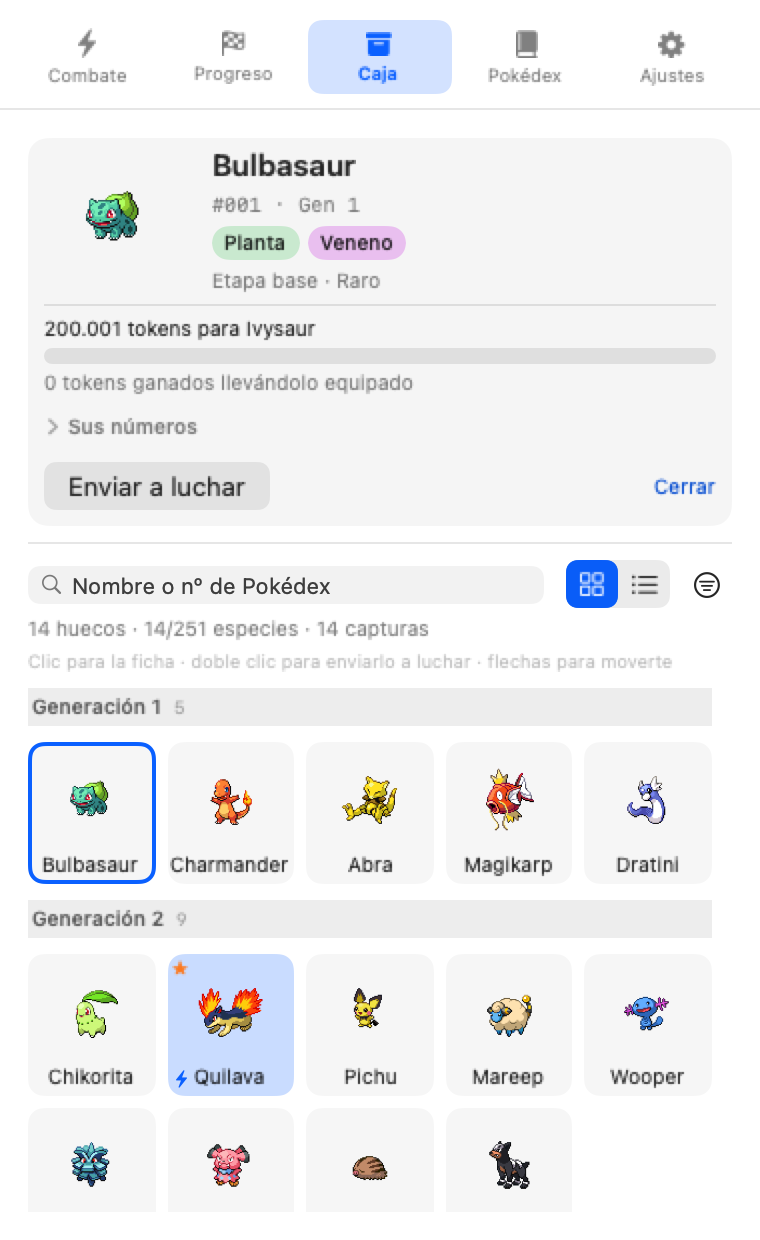
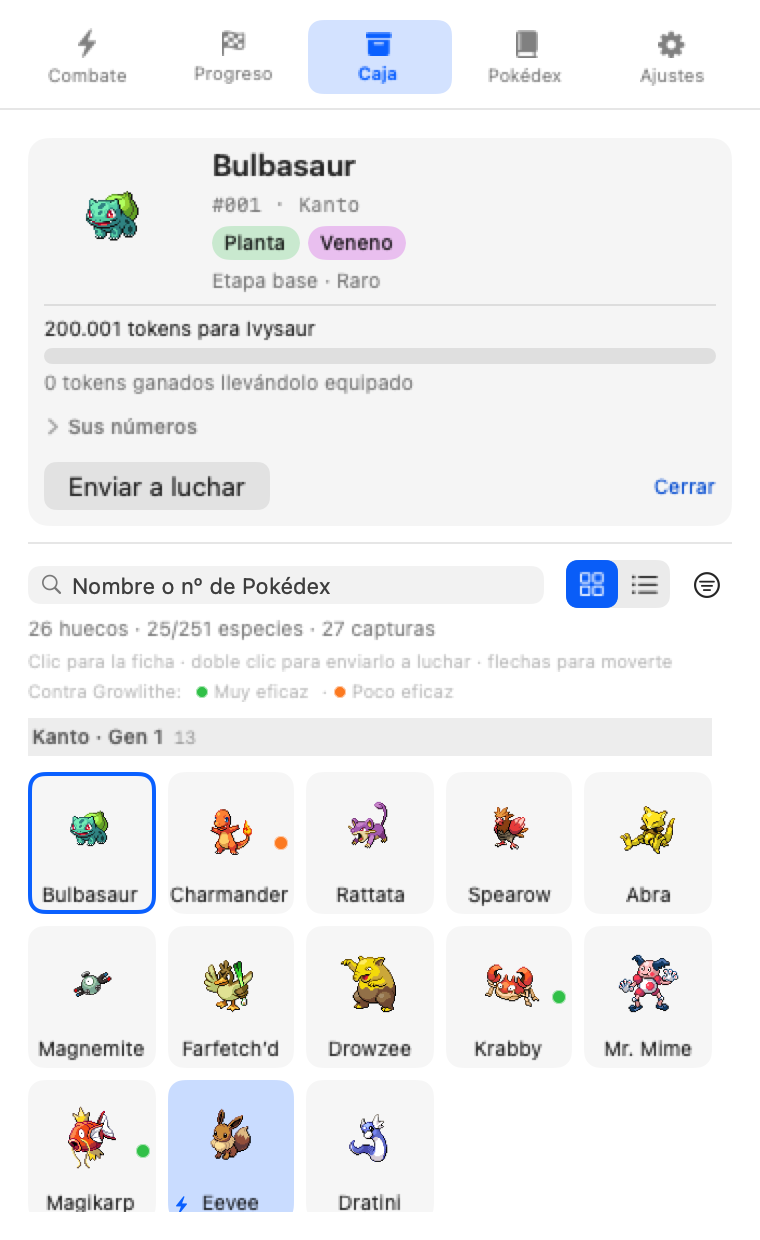
feat(caja): punto de eficacia en cada hueco y fuera el número de victorias
La rejilla llevaba el contador de victorias de la línea en cada celda. De un
vistazo no dice nada y encima se leía como "tengo dos de este Pokémon": el
número está en la ficha y en el modo lista, que es donde se piden números.

En su lugar va lo que sí se lee de golpe y contesta la pregunta que se hace
todo el rato en la caja —"¿a quién llevo a esta pelea?"—: un punto de color
con el cruce de tipos de ese ejemplar contra el rival de ahora, sea salvaje o
jefe. Verde muy eficaz, naranja poco eficaz, rojo inmune, y nada cuando es
neutro, porque si todas las celdas llevaran color el color dejaría de
señalar. La cabecera lleva la leyenda con el nombre del rival, y la ficha
añade la línea con número y nombre, neutro incluido.

diff --git a/Sources/PokeTokenBarSelfTest/GameStoreTests.swift b/Sources/PokeTokenBarSelfTest/GameStoreTests.swift
@@ -25,10 +25,57 @@ enum GameStoreTests: TestSuite {
         ("la migración acredita al equipado", testMigrationCreditsTheEquippedCompanion),
         ("el multiplicador de tipos escala el daño real", testTypeMultiplierScalesDamage),
         ("la colección suma daño solo a los salvajes", testCollectionBonus),
+        ("el cruce de cada ejemplar contra el rival de ahora", testMatchupAgainstCurrentTarget),
         ("las secciones plegadas se recuerdan", testCollapsedSectionsPersist),
         ("abrir una ficha no cambia el tamaño del HUD", testOpeningDetailNeverResizesTheHUD),
         ("plegar el HUD cierra la ficha y la caja", testCollapsingTheHUDClosesEverything),
     ]
+
+    /// El dato del punto de color de la caja: cómo le va a **cada** ejemplar
+    /// contra lo que hay delante, no solo al equipado.
+    static func testMatchupAgainstCurrentTarget() throws {
+        let store = makeStore()
+        store.chooseStarter(speciesID: 7)              // Squirtle, agua
+        store.debugCapture(speciesID: 152)             // Chikorita, planta
+        store.debugCapture(speciesID: 43)              // Oddish, planta/veneno
+
+        // Rival de fuego: el agua pega ×2, la planta ×0,5 y el fuego ×0,5.
+        store.debugSetEncounter(WildEncounter(speciesID: 58, isShiny: false, rarity: .common, maxHP: 1_000))
+        expectEqual(store.matchupAgainstCurrentTarget(["water"])?.raw, 2)
+        expectEqual(store.matchupAgainstCurrentTarget(["grass"])?.raw, 0.5)
+        expectEqual(store.matchupAgainstCurrentTarget(["fire"])?.raw, 0.5)
+
+        // Por grupo de la caja, que es como lo pide la rejilla.
+        let squirtle = try unwrap(store.boxGroups.first { $0.species.id == 7 })
+        expectEqual(store.matchupAgainstCurrentTarget(squirtle)?.raw, 2, "el Squirtle es el que hay que llevar")
+        let chikorita = try unwrap(store.boxGroups.first { $0.species.id == 152 })
+        expectEqual(store.matchupAgainstCurrentTarget(chikorita)?.raw, 0.5)
+        // De un doble tipo cuenta el mejor de los dos, así que el veneno de
+        // Oddish le salva la planta y el punto no se pinta.
+        let oddish = try unwrap(store.boxGroups.first { $0.species.id == 43 })
+        expectTrue(store.matchupAgainstCurrentTarget(oddish)?.isNeutral == true)
+
+        // Contra un jefe se mide contra el jefe, no contra un salvaje que ya
+        // no está: es el rival de ahora, sea quien sea.
+        store.debugSetGymCounters(tokens: GameRules.gymTokenInterval, captures: 0)
+        store.debugSetEncounter(WildEncounter(speciesID: 19, isShiny: false, rarity: .common, maxHP: 10))
+        store.ingest(event("abre", input: 10, output: 0))
+        let gym = try unwrap(store.availableGym)
+        expectTrue(store.startGym(gym.id))
+        let defender = try unwrap(store.pokedex[gym.signatureSpeciesID])
+        expectEqual(
+            store.matchupAgainstCurrentTarget(squirtle)?.raw,
+            store.typeChart.matchup(attacker: ["water"], defender: defender.types).raw,
+            "mide contra el líder"
+        )
+
+        expectEqual(store.matchupLegendRival, gym.leader, "la leyenda nombra al rival de ahora")
+
+        // Y sin efectividad de tipos no hay punto que pintar ni leyenda.
+        store.updateSettings { $0.typeEffectivenessEnabled = false }
+        expectNil(store.matchupAgainstCurrentTarget(squirtle))
+        expectNil(store.matchupLegendRival)
+    }
 
     static func testCollapsedSectionsPersist() {
         let url = temporaryStateURL()

diff --git a/Sources/PokeTokenBarCore/Store/GameStore.swift b/Sources/PokeTokenBarCore/Store/GameStore.swift
@@ -577,6 +577,9 @@ public final class GameStore: ObservableObject {
         public let rate: Double
         public let matchup: TypeMatchup
         public let isBoss: Bool
+        /// Tipos del que hay delante, para poder medir **cualquier** ejemplar de
+        /// la caja contra él y no solo el equipado.
+        public let defenderTypes: [String]
     }
 
     public var currentTarget: CurrentTarget? {
@@ -585,7 +588,8 @@ public final class GameStore: ObservableObject {
                 label: active.member.name,
                 rate: damagePerToken(against: active.member),
                 matchup: matchup(against: active.member),
-                isBoss: true
+                isBoss: true,
+                defenderTypes: pokedex[active.member.opponentSpeciesID]?.types ?? []
             )
         }
         if let active = activeMilestone {
@@ -593,7 +597,8 @@ public final class GameStore: ObservableObject {
                 label: pokedex[active.milestone.speciesID]?.localizedName ?? active.milestone.place,
                 rate: damagePerToken(against: active.milestone),
                 matchup: matchup(against: active.milestone),
-                isBoss: true
+                isBoss: true,
+                defenderTypes: pokedex[active.milestone.speciesID]?.types ?? []
             )
         }
         if let active = activeGym {
@@ -601,7 +606,8 @@ public final class GameStore: ObservableObject {
                 label: active.gym.leader,
                 rate: damagePerToken(against: active.gym),
                 matchup: matchup(against: active.gym),
-                isBoss: true
+                isBoss: true,
+                defenderTypes: pokedex[active.gym.opponentSpeciesID]?.types ?? []
             )
         }
         if let rival = rivalSpecies {
@@ -609,10 +615,39 @@ public final class GameStore: ObservableObject {
                 label: rival.localizedName,
                 rate: wildDamagePerToken,
                 matchup: currentMatchup,
-                isBoss: false
+                isBoss: false,
+                defenderTypes: rival.types
             )
         }
         return nil
+    }
+
+    /// Cruce de un ejemplar de la caja contra lo que hay delante ahora mismo.
+    ///
+    /// Es lo que contesta de un vistazo "¿a quién llevo a esta pelea?", que
+    /// hasta ahora había que ir mirando ficha por ficha. `nil` cuando no hay
+    /// rival o cuando la efectividad está desactivada en ajustes.
+    public func matchupAgainstCurrentTarget(_ attackerTypes: [String]) -> TypeMatchup? {
+        guard state.settings.typeEffectivenessEnabled,
+              let target = currentTarget,
+              !target.defenderTypes.isEmpty,
+              !attackerTypes.isEmpty
+        else { return nil }
+        return typeChart.matchup(attacker: attackerTypes, defender: target.defenderTypes)
+    }
+
+    public func matchupAgainstCurrentTarget(_ group: BoxGroup) -> TypeMatchup? {
+        matchupAgainstCurrentTarget(group.displayForm.types)
+    }
+
+    /// Nombre del rival contra el que se están midiendo los puntos de la caja,
+    /// o `nil` cuando no hay ninguno y por tanto no hay nada que explicar.
+    public var matchupLegendRival: String? {
+        guard state.settings.typeEffectivenessEnabled,
+              let target = currentTarget,
+              !target.defenderTypes.isEmpty
+        else { return nil }
+        return target.label
     }
 
     public var rivalSpecies: Pokemon? {

diff --git a/Sources/PokeTokenBar/Views/BoxGridView.swift b/Sources/PokeTokenBar/Views/BoxGridView.swift
@@ -138,6 +138,9 @@ struct BoxGridView: View {
         if isActive { parts.append("· equipado") }
         let wins = store.timesDefeated(familyOf: group.species.id)
         if wins > 0 { parts.append("· \(wins) victorias contra su línea") }
+        if let matchup = store.matchupAgainstCurrentTarget(group), !matchup.isNeutral {
+            parts.append("· \(matchup.badge) \(matchup.label) contra el rival de ahora")
+        }
         parts.append("· clic para su ficha, doble clic para enviarlo a luchar")
         return parts.joined(separator: " ")
     }
@@ -192,18 +195,15 @@ struct BoxGridView: View {
                 Text("✦").font(.system(size: 10)).foregroundStyle(.yellow).padding(2)
             }
         }
-        .overlay(alignment: .bottomTrailing) {
-            // Ya no puede haber repetidos, así que el hueco lo ocupa el
-            // número que sí crece: victorias contra esa línea.
-            let wins = store.timesDefeated(familyOf: group.species.id)
-            if wins > 1 {
-                Text("\(wins)⚔")
-                    .font(.system(size: 10, weight: .semibold, design: .monospaced))
-                    .padding(.horizontal, 3)
-                    .padding(.vertical, 1)
-                    .background(Color.secondary.opacity(0.22), in: Capsule())
-                    .padding(2)
-            }
+        .overlay(alignment: .trailing) {
+            // Aquí iba el número de victorias, que de un vistazo no dice nada
+            // y encima se lee como "×2 de este Pokémon". Los números están en
+            // su ficha y en el modo lista; el hueco lo ocupa lo que sí se lee
+            // de golpe: cómo le va a este ejemplar contra el rival de ahora.
+            // Al centro del borde derecho, que es la única esquina libre y no
+            // se come el nombre.
+            MatchupDot(matchup: store.matchupAgainstCurrentTarget(group))
+                .padding(.trailing, 3)
         }
         .overlay(alignment: .bottomLeading) {
             if isActive {
@@ -241,6 +241,7 @@ struct BoxGridView: View {
                             .font(.system(size: 8))
                             .foregroundStyle(Color.accentColor)
                     }
+                    MatchupDot(matchup: store.matchupAgainstCurrentTarget(group), size: 6)
                 }
                 Text("#\(String(format: "%03d", group.displayForm.id)) · \(group.stage.label) · \(group.species.rarity.label)")
                     .font(.system(size: 9))

diff --git a/Sources/PokeTokenBar/Views/Components.swift b/Sources/PokeTokenBar/Views/Components.swift
@@ -86,6 +86,61 @@ struct RarityBadge: View {
 
 /// Multiplicador de tipos del combate actual. Neutro no se pinta: si no cambia
 /// nada, no merece espacio.
+/// Punto de color con el cruce de tipos contra lo que hay delante. Sirve para
+/// barrer la caja con la vista y ver a quién llevar: verde pega más, naranja
+/// menos, rojo no le hace nada. Neutro no pinta nada, para que solo destaque
+/// lo que decide algo.
+struct MatchupDot: View {
+    let matchup: TypeMatchup?
+    var size: CGFloat = 7
+
+    /// Neutro no pinta nada: si todo llevara punto, el color dejaría de
+    /// señalar. Solo se marca lo que cambia la decisión.
+    static func tint(_ matchup: TypeMatchup?) -> Color? {
+        guard let matchup, !matchup.isNeutral else { return nil }
+        if matchup.isImmune { return .red }
+        return matchup.raw > 1 ? .green : .orange
+    }
+
+    private var tint: Color? { Self.tint(matchup) }
+
+    var body: some View {
+        if let tint, let matchup {
+            Circle()
+                .fill(tint)
+                .frame(width: size, height: size)
+                .overlay(Circle().strokeBorder(.white.opacity(0.6), lineWidth: 0.5))
+                .help("\(matchup.badge) \(matchup.label) contra el rival de ahora")
+        }
+    }
+}
+
+/// Los puntos de la caja no se explican solos, así que la leyenda dice qué es
+/// cada color y contra quién se está midiendo.
+struct MatchupLegend: View {
+    let rival: String
+    private static let samples = [
+        TypeMatchup(raw: 2, multiplier: 2, attacking: nil),
+        TypeMatchup(raw: 0.5, multiplier: 0.5, attacking: nil),
+    ]
+
+    var body: some View {
+        HStack(spacing: 6) {
+            Text("Contra \(rival):")
+            ForEach(Array(Self.samples.enumerated()), id: \.element.raw) { index, sample in
+                HStack(spacing: 3) {
+                    if index > 0 { Text("·") }
+                    MatchupDot(matchup: sample, size: 6)
+                    Text(sample.label)
+                }
+            }
+        }
+        .font(.system(size: 9))
+        .foregroundStyle(.tertiary)
+        .lineLimit(1)
+    }
+}
+
 struct MatchupBadge: View {
     let matchup: TypeMatchup
     var compact = false

diff --git a/Sources/PokeTokenBar/Views/PokemonDetailView.swift b/Sources/PokeTokenBar/Views/PokemonDetailView.swift
@@ -176,6 +176,12 @@ struct PokemonDetailView: View {
 
     private var stats: some View {
         VStack(alignment: .leading, spacing: 3) {
+            // El punto de la rejilla solo tiene color; aquí va con número y
+            // nombre, incluido el neutro, que en la rejilla no se pinta.
+            if let rival = store.matchupLegendRival,
+               let matchup = store.matchupAgainstCurrentTarget(group) {
+                row("Contra \(rival)", "\(matchup.badge) \(matchup.label)")
+            }
             row("Combates ganados", Fmt.tokens(captured.wildDefeats))
             row("Gimnasios ganados", Fmt.tokens(captured.gymsWon))
             row("Veces vencido en libertad", Fmt.tokens(store.timesDefeated(familyOf: group.species.id)))

diff --git a/Sources/PokeTokenBar/UIRender.swift b/Sources/PokeTokenBar/UIRender.swift
@@ -137,6 +137,10 @@ enum UIRender {
             store.selectedBoxGroupID = nil
         }
 
+        // Rival fijo de fuego para que los puntos de eficacia de la caja salgan
+        // siempre iguales en la captura.
+        store.debugSetEncounter(WildEncounter(speciesID: 58, isShiny: false, rarity: .common, maxHP: 900_000))
+        warm([58])
         store.selectedTab = "caja"
         write("popover-caja", hosted(RootView(), size: popoverSize))
 

diff --git a/Sources/PokeTokenBarCore/Data/TypeChart.swift b/Sources/PokeTokenBarCore/Data/TypeChart.swift
@@ -8,6 +8,12 @@ public struct TypeMatchup: Hashable, Sendable {
     public let multiplier: Double
     public let attacking: String?
 
+    public init(raw: Double, multiplier: Double, attacking: String?) {
+        self.raw = raw
+        self.multiplier = multiplier
+        self.attacking = attacking
+    }
+
     public var isImmune: Bool { raw == 0 }
     public var isNeutral: Bool { raw == 1 }
 

diff --git a/Sources/PokeTokenBar/Views/BoxToolbar.swift b/Sources/PokeTokenBar/Views/BoxToolbar.swift
@@ -70,6 +70,10 @@ struct BoxToolbar: View {
                     .foregroundStyle(.tertiary)
                     .lineLimit(1)
             }
+
+            if let rival = store.matchupLegendRival {
+                MatchupLegend(rival: rival)
+            }
         }
     }
 

diff --git a/README.md b/README.md
@@ -205,6 +205,13 @@ agua contra fuego ×2, fuego contra agua ×0,5, roca contra fuego/volador ×4.
 - Al capturar en cadena, los tokens que sobran se re-escalan con el
   multiplicador del **rival nuevo**, que puede ser otro tipo.
 - Se puede apagar desde el popover (vuelve a 1 token = 1 HP).
+- **La caja marca el cruce de cada ejemplar con un punto de color**: verde si
+  pega fuerte contra el rival de ahora, naranja si le hace cosquillas, rojo si
+  es inmune, y nada cuando es neutro. Neutro no se pinta a propósito: si todas
+  las celdas llevaran color, el color dejaría de señalar. La leyenda de la
+  cabecera dice contra quién se está midiendo, y el rival puede ser un salvaje
+  o un jefe — es siempre el de la pelea abierta. Con la efectividad apagada no
+  hay puntos.
 
 La tabla se genera de PokeAPI (`tools/generate_typechart.mjs`) e incluye Hada:
 la Pokédex embebida trae los tipos actuales, así que Clefairy, Togepi o Marill
@@ -418,9 +425,14 @@ después, ahora recordado entre sesiones.
 
 <p align="center">
   <img src="docs/screenshots/popover-progreso.png" width="240" alt="Progreso: medallas, ligas y legendarios">
-  <img src="docs/screenshots/popover-caja.png" width="240" alt="Caja en rejilla con tramos por generación">
+  <img src="docs/screenshots/popover-caja.png" width="240" alt="Caja en rejilla con tramos por región y puntos de eficacia">
   <img src="docs/screenshots/popover-caja-lista.png" width="240" alt="Caja en modo lista, con los números de cada hueco">
 </p>
+
+Las celdas de la rejilla **no llevan números**. Tenían el contador de victorias
+de la línea, que de un vistazo no dice nada y encima se leía como "tengo dos de
+este Pokémon"; los números viven en la ficha y en el modo lista, y el hueco lo
+ocupa el punto de eficacia, que sí se lee de golpe.
 
 La pestaña de Progreso incluye la **escalera de desbloqueo**, que existía en los
 datos pero en ninguna pantalla: qué abre cada cantidad de medallas, la puerta de
@@ -431,7 +443,7 @@ tabla escrita a mano.
 ## 10. Tests
 
 ```bash
-swift run PokeTokenBarSelfTest     # 60 tests, ~19k comprobaciones
+swift run PokeTokenBarSelfTest     # 189 tests, ~25k comprobaciones
 swift run PokeTokenBar --ui-smoke-test
 ```
 
